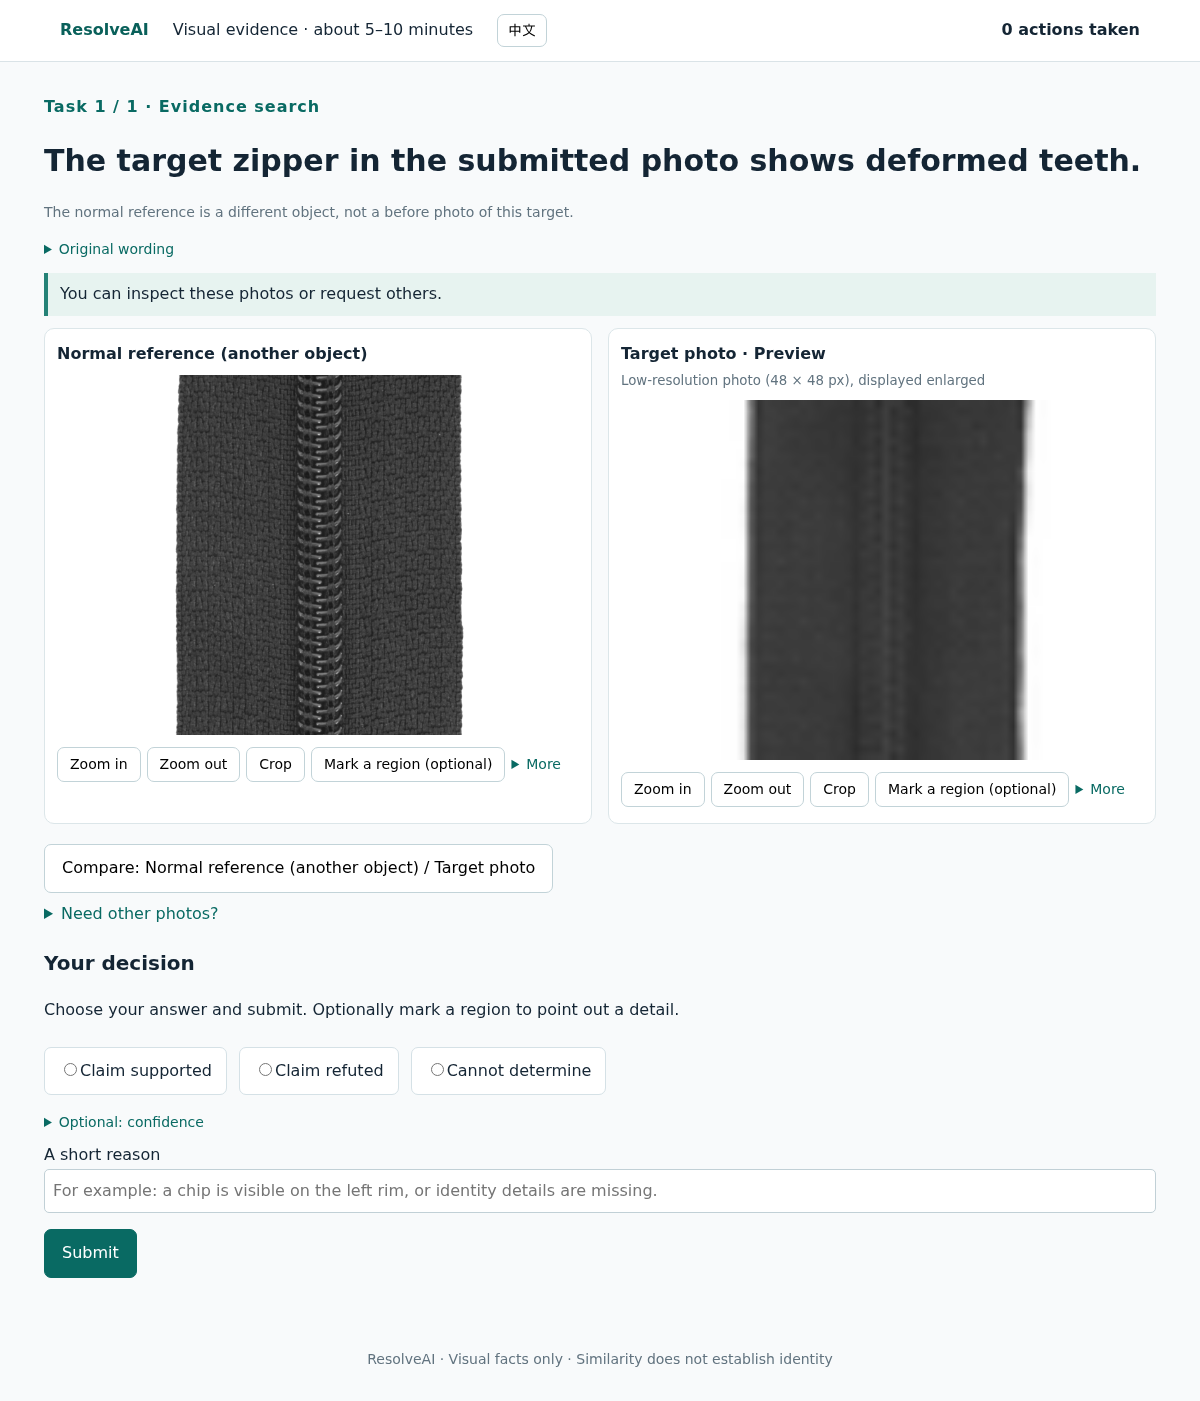
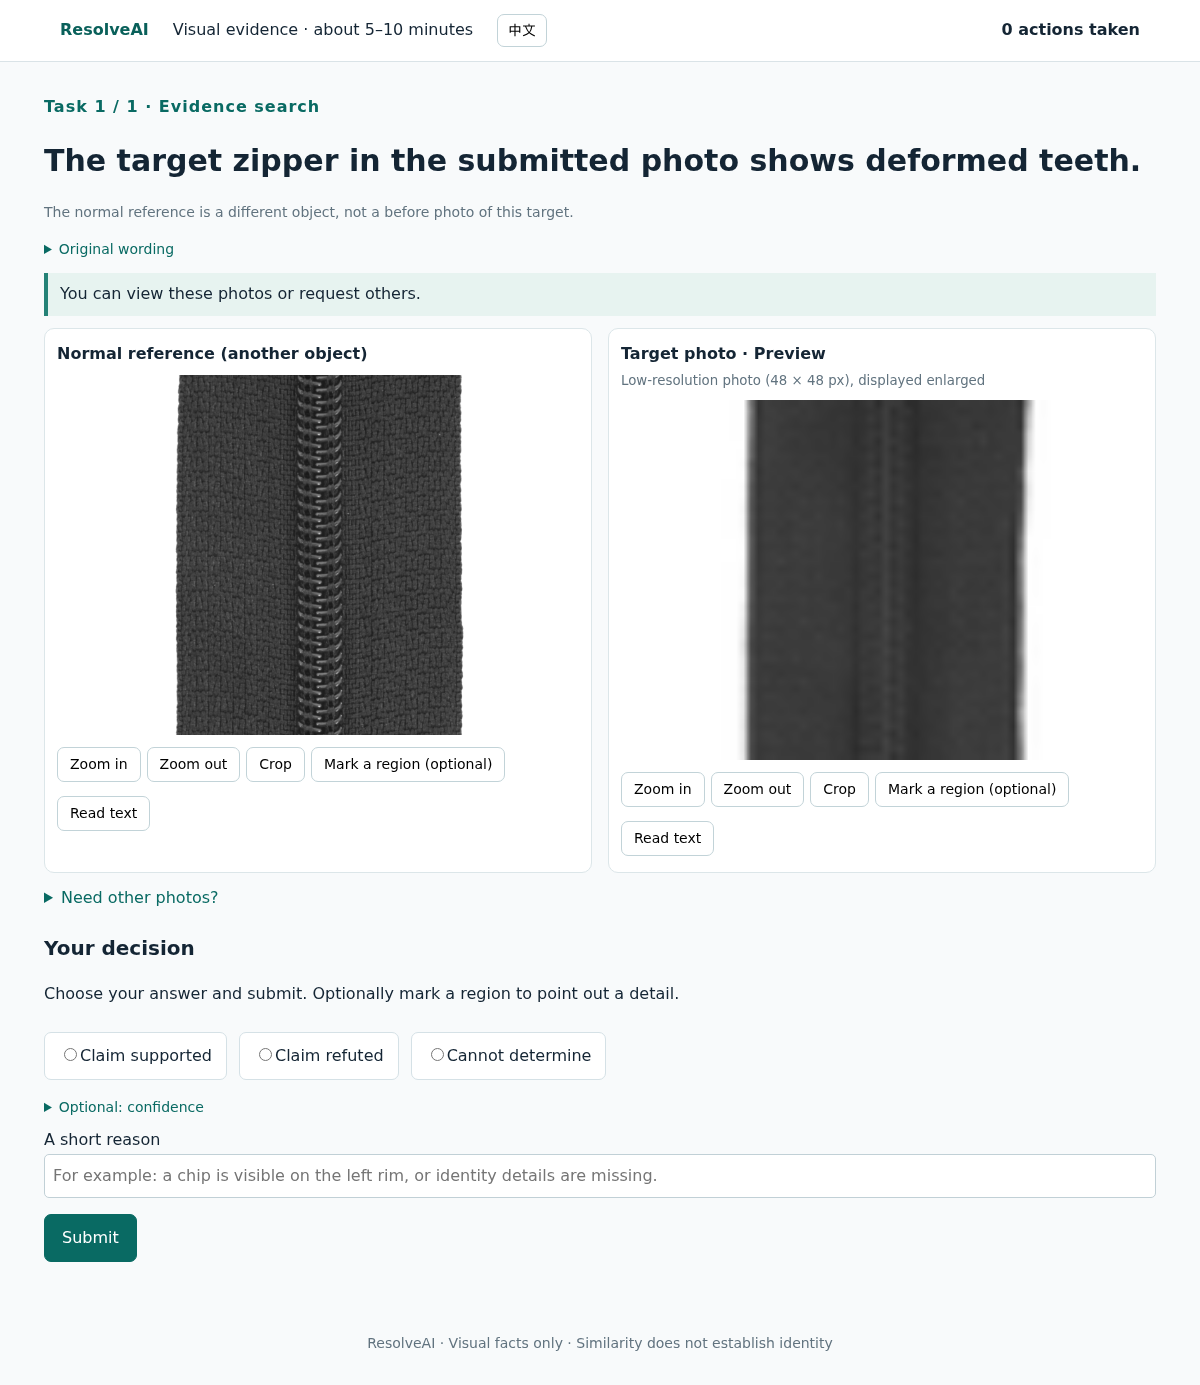
Remove redundant compare and inspect controls from the human study

diff --git a/src/resolveai/web/app.js b/src/resolveai/web/app.js
@@ -97,21 +97,13 @@ function resetAnswer() {
 }
 function refreshRegions() {
   document.querySelectorAll(".card").forEach((card) => {
+    card.querySelector(".clear-mark").hidden = !marked.has(card.dataset.ref);
     card.querySelector(".selection-status").textContent = marked.has(
       card.dataset.ref,
     )
       ? t("regionDone")
       : "";
   });
-  const shown = displayImages(state);
-  const a = shown.find((p) => p.object === "subject-A") || shown[0];
-  const b =
-    shown.find((p) => p.object === "subject-B") || shown.find((p) => p !== a);
-  $("compare").hidden = !a || !b;
-  $("compare").textContent =
-    a && b ? t("comparePhotos", actorText(a), actorText(b)) : t("compare");
-  $("compare").onclick = () =>
-    perform({ type: "compare", image_ids: [a.view_id, b.view_id] });
   $("selection-hint").textContent = t("optionalRegions");
 }
 function displayBox(p, box) {
@@ -315,36 +307,27 @@ async function picture(p) {
       button(t("mark"), () => region("mark")),
     );
   }
-  const more = document.createElement("details"),
-    summary = document.createElement("summary");
-  summary.textContent = t("more");
-  more.append(summary);
-  more.append(
-    button(t("clearMark"), () => {
-      marked.delete(p.view_id);
-      draw();
-      refreshRegions();
-    }),
-  );
+  const clearMark = button(t("clearMark"), () => {
+    marked.delete(p.view_id);
+    note.textContent = "";
+    draw();
+    refreshRegions();
+  });
+  clearMark.className = "clear-mark";
+  clearMark.hidden = !marked.has(p.view_id);
+  controls.append(clearMark);
   if (p.view_id !== p.image_id) {
-    more.append(
+    controls.append(
       button(t("restore"), () =>
         perform({ type: "inspect", image_id: p.image_id }),
       ),
     );
   }
-  {
-    more.append(
-      button(t("inspect"), () =>
-        perform({ type: "inspect", image_id: p.view_id }),
-      ),
+  if (state.ocr_available) {
+    controls.append(
+      button(t("ocr"), () => perform({ type: "ocr", image_id: p.view_id })),
     );
-    if (state.ocr_available)
-      more.append(
-        button(t("ocr"), () => perform({ type: "ocr", image_id: p.view_id })),
-      );
   }
-  controls.append(more);
   card.append(controls, note);
   return card;
 }

diff --git a/src/resolveai/web/i18n.js b/src/resolveai/web/i18n.js
@@ -7,8 +7,8 @@ const UI_TEXT = {
     "Low-resolution photo ({0} px), displayed enlarged",
   ],
   singleReview: [
-    "全部可获取照片已显示。可放大、裁剪、比较；这道题只提交一次。",
-    "All available photos are shown. You can zoom, crop or compare; submit this task once.",
+    "全部可获取照片已显示。可放大或裁剪；这道题只提交一次。",
+    "All available photos are shown. You can zoom or crop; submit this task once.",
   ],
   previewLink: [
     "试用新版流程（不计入统计）",
@@ -70,8 +70,6 @@ const UI_TEXT = {
   begin: ["开始", "Begin"],
   original: ["原始题目", "Original wording"],
   answer: ["你的判断", "Your decision"],
-  compare: ["比较图片", "Compare photos"],
-  comparePhotos: ["比较：{0} / {1}", "Compare: {0} / {1}"],
   optionalRegions: [
     "直接选择判断并提交即可。画框可选，用来指出你关注的细节。",
     "Choose your answer and submit. Optionally mark a region to point out a detail.",
@@ -147,11 +145,9 @@ const UI_TEXT = {
   zoomIn: ["放大", "Zoom in"],
   zoomOut: ["缩小", "Zoom out"],
   crop: ["裁剪", "Crop"],
-  more: ["更多", "More"],
   mark: ["画框（可选）", "Mark a region (optional)"],
   clearMark: ["清除我的框", "Clear my mark"],
   restore: ["恢复整图", "Restore whole photo"],
-  inspect: ["检查图片", "Inspect"],
   ocr: ["识别文字", "Read text"],
   targetRequest: ["目标", "Target"],
   overview: ["概览照片", "Overview"],
@@ -208,7 +204,7 @@ const UI_TEXT = {
   ],
   interactive: [
     "可以查看图片，或请求其他照片。",
-    "You can inspect these photos or request others.",
+    "You can view these photos or request others.",
   ],
   full: ["所有可获取照片都在这里。", "All available photos are shown here."],
   saveStage: ["保存，看下一组图片", "Save and see the next photos"],
@@ -249,7 +245,6 @@ const STATIC_TEXT = {
   "#begin": "begin",
   ".original-claim summary": "original",
   "#answer-title": "answer",
-  "#compare": "compare",
   "#request-panel summary": "requestPanel",
   ".optional summary": "optional",
   "#confidence-label": "confidence",

diff --git a/src/resolveai/web/index.html b/src/resolveai/web/index.html
@@ -74,7 +74,6 @@
         <div class="info" id="condition"></div>
         <div id="pictures" class="grid"></div>
         <section id="tools">
-          <button id="compare" hidden>比较图片</button>
           <details id="request-panel" hidden>
             <summary>需要其他照片？</summary>
             <div id="request-buttons" class="toolrow"></div>

diff --git a/src/resolveai/web/style.css b/src/resolveai/web/style.css
@@ -234,9 +234,6 @@ footer {
   margin: 4px 0;
   font-size: 14px;
 }
-.picture-controls details {
-  font-size: 14px;
-}
 summary {
   cursor: pointer;
   color: #096a63;

diff --git a/docs/human_study.zh-CN.md b/docs/human_study.zh-CN.md
@@ -14,7 +14,7 @@
 
 ## 五题怎样走
 
-前三题是搜证：分别只提供初始材料、允许索取材料、提供全部可获取材料。三种条件的顺序按人随机；每种条件的图片都可放大、缩小、裁剪、比较或 OCR。只有允许索证的那题能请求额外材料。
+前三题是搜证：分别只提供初始材料、允许索取材料、提供全部可获取材料。三种条件的顺序按人随机；图片已经并排显示，可直接对照查看。每种条件都可放大、缩小、裁剪、可选画框或 OCR（可用时）。只有允许索证的那题能请求额外材料。
 
 后两题是独立图片审核：开始就显示完整可获取材料，同样能操作图片，选择结论，画框可选，**一次提交完成一题**。不再为同一声明重复五轮提问。每次“下一题”都进入另一个案件；不会是同一来源实物。新建题单同时避免重复物品类别；本次已冻结题库的迁移说明见下文。
 
@@ -24,7 +24,7 @@
 
 所有图片以正常查看尺寸显示。48 像素的低清照片也会显示得足够大，并标注清晰度；显示放大不会制造新的细节。真正请求到清晰原图后，原图替换同一来源的低清照片，不并列堆叠一大一小。不同实拍视角保留各自图片。
 
-放大／缩小是浏览器显示操作：记录为 `presentation_only`，不重采样图像、不算作新增证据。裁剪和 OCR 仍使用已释放像素，坐标保留源图映射。裁剪后可在“更多”恢复已释放整图。正常参考是另一个实物，不能当作目标的“之前照片”。
+放大／缩小是浏览器显示操作：记录为 `presentation_only`，不重采样图像、不算作新增证据。裁剪和 OCR 仍使用已释放像素，坐标保留源图映射。裁剪后会直接出现“恢复整图”按钮。只有画框后才出现“清除我的框”。人工页面去掉“比较”和“检查图片”按钮：它们只重复展示已有照片，没有清楚的新结果；模型环境仍保留这些工具。正常参考是另一个实物，不能当作目标的“之前照片”。
 
 低清图优先请求清晰原图或实际已有的其他视角。当前不自动使用超分辨率：它推测高分辨率细节，可能产生伪影，尤其会干扰细小损伤判断，见 [CVPR 2023 原始论文](https://openaccess.thecvf.com/content/CVPR2023/papers/Park_Perception-Oriented_Single_Image_Super-Resolution_Using_Optimal_Objective_Estimation_CVPR_2023_paper.pdf)。这与 proposal 的第一阶段约束一致。以后可将超分列为单独工具消融，但必须标明由原图生成、保留原图，不能算独立证据或据其新增细节判真。显示放大与请求原图保持区分。
 

diff --git a/docs/status.md b/docs/status.md
@@ -97,3 +97,7 @@ Human UI v4 displays low-resolution photos at a usable size, provides image oper
 - 固定题库和各条件次数，只重排未开始者：前三道搜证物品类别互不重复；19份中15份五类不同、4份四类不同。已开始者不更换案件。
 - 77项回归测试和真实五题的隔离浏览器检查通过；不向正式/试用库写入测试回答。中英文 GitHub 演示截图已更新。
 - 超分不自动用于当前人工实验；低清材料先请求原图。未来超分工具可独立消融，生成细节不作为新增事实证据。
+
+### 2026-10-06：去掉人工页面无明确结果的工具按钮
+
+人工界面去掉“比较”和“检查图片”：照片已并排显示，这些按钮没有提供新的、可理解的结果。裁剪后的“恢复整图”、画框后的“清除我的框”和可用时的“识别文字”直接显示在图片下，不再放在“更多”菜单。模型工具、题单、邀请和答案不变。
